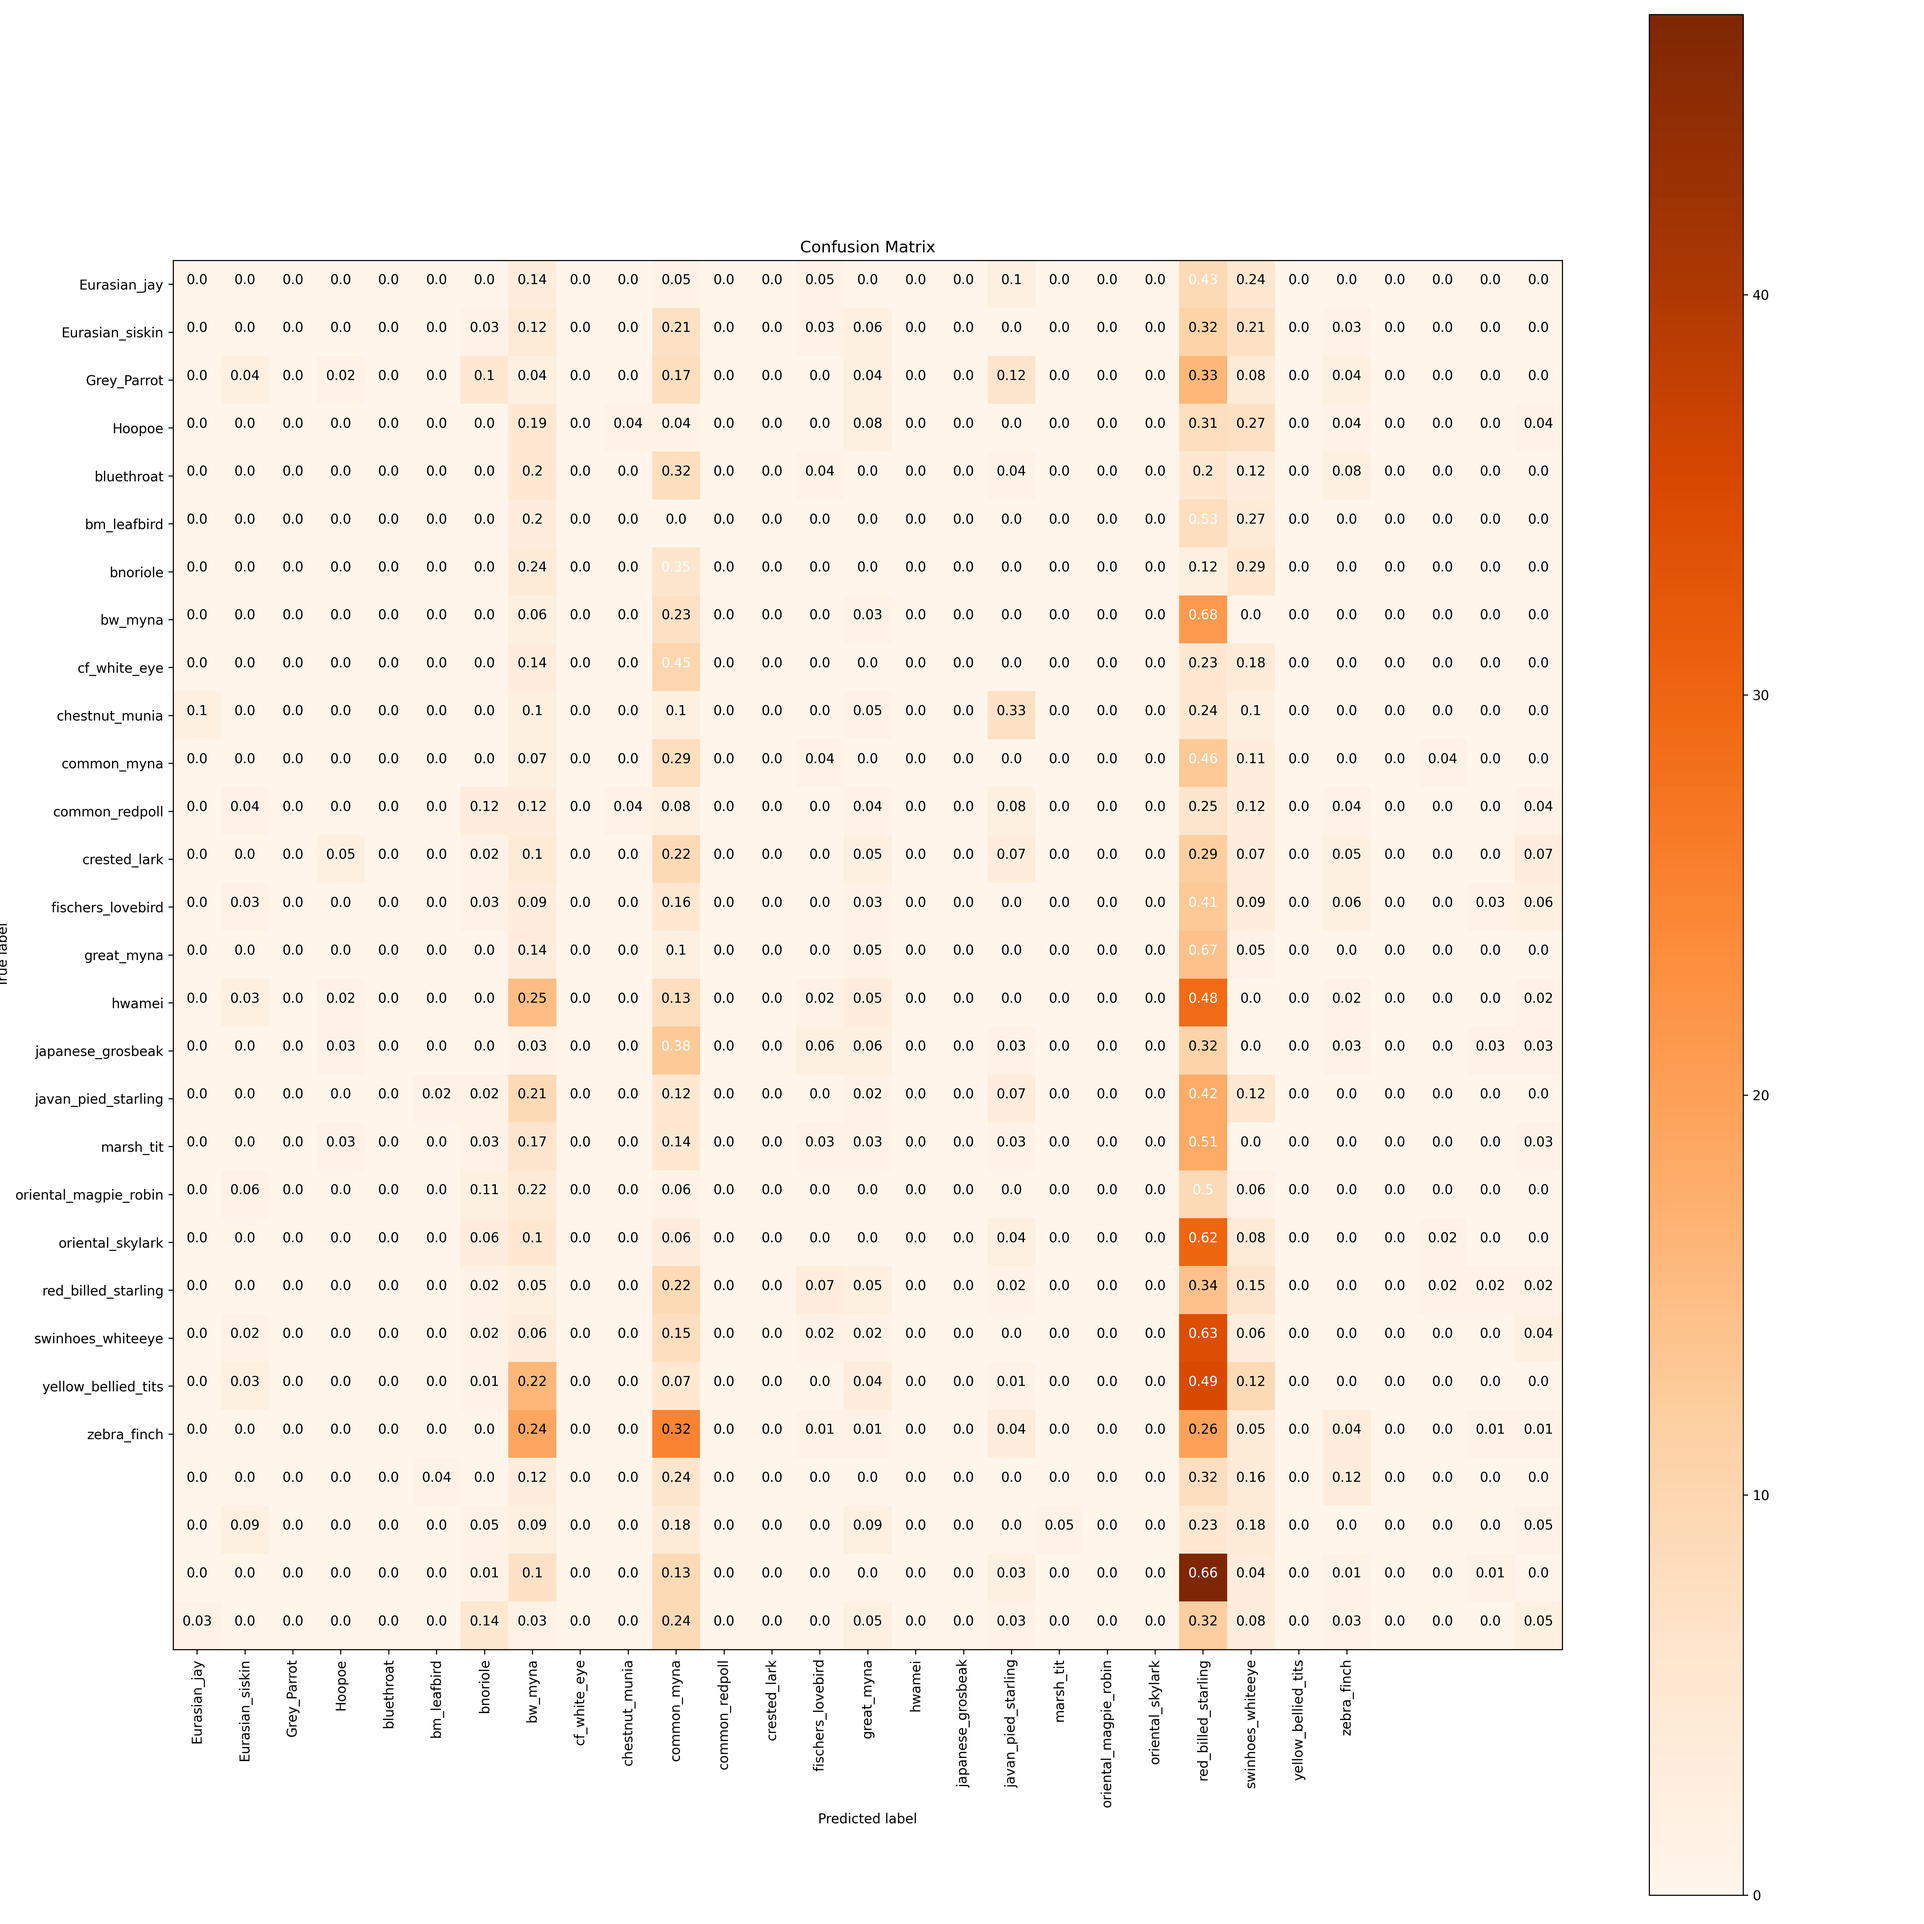
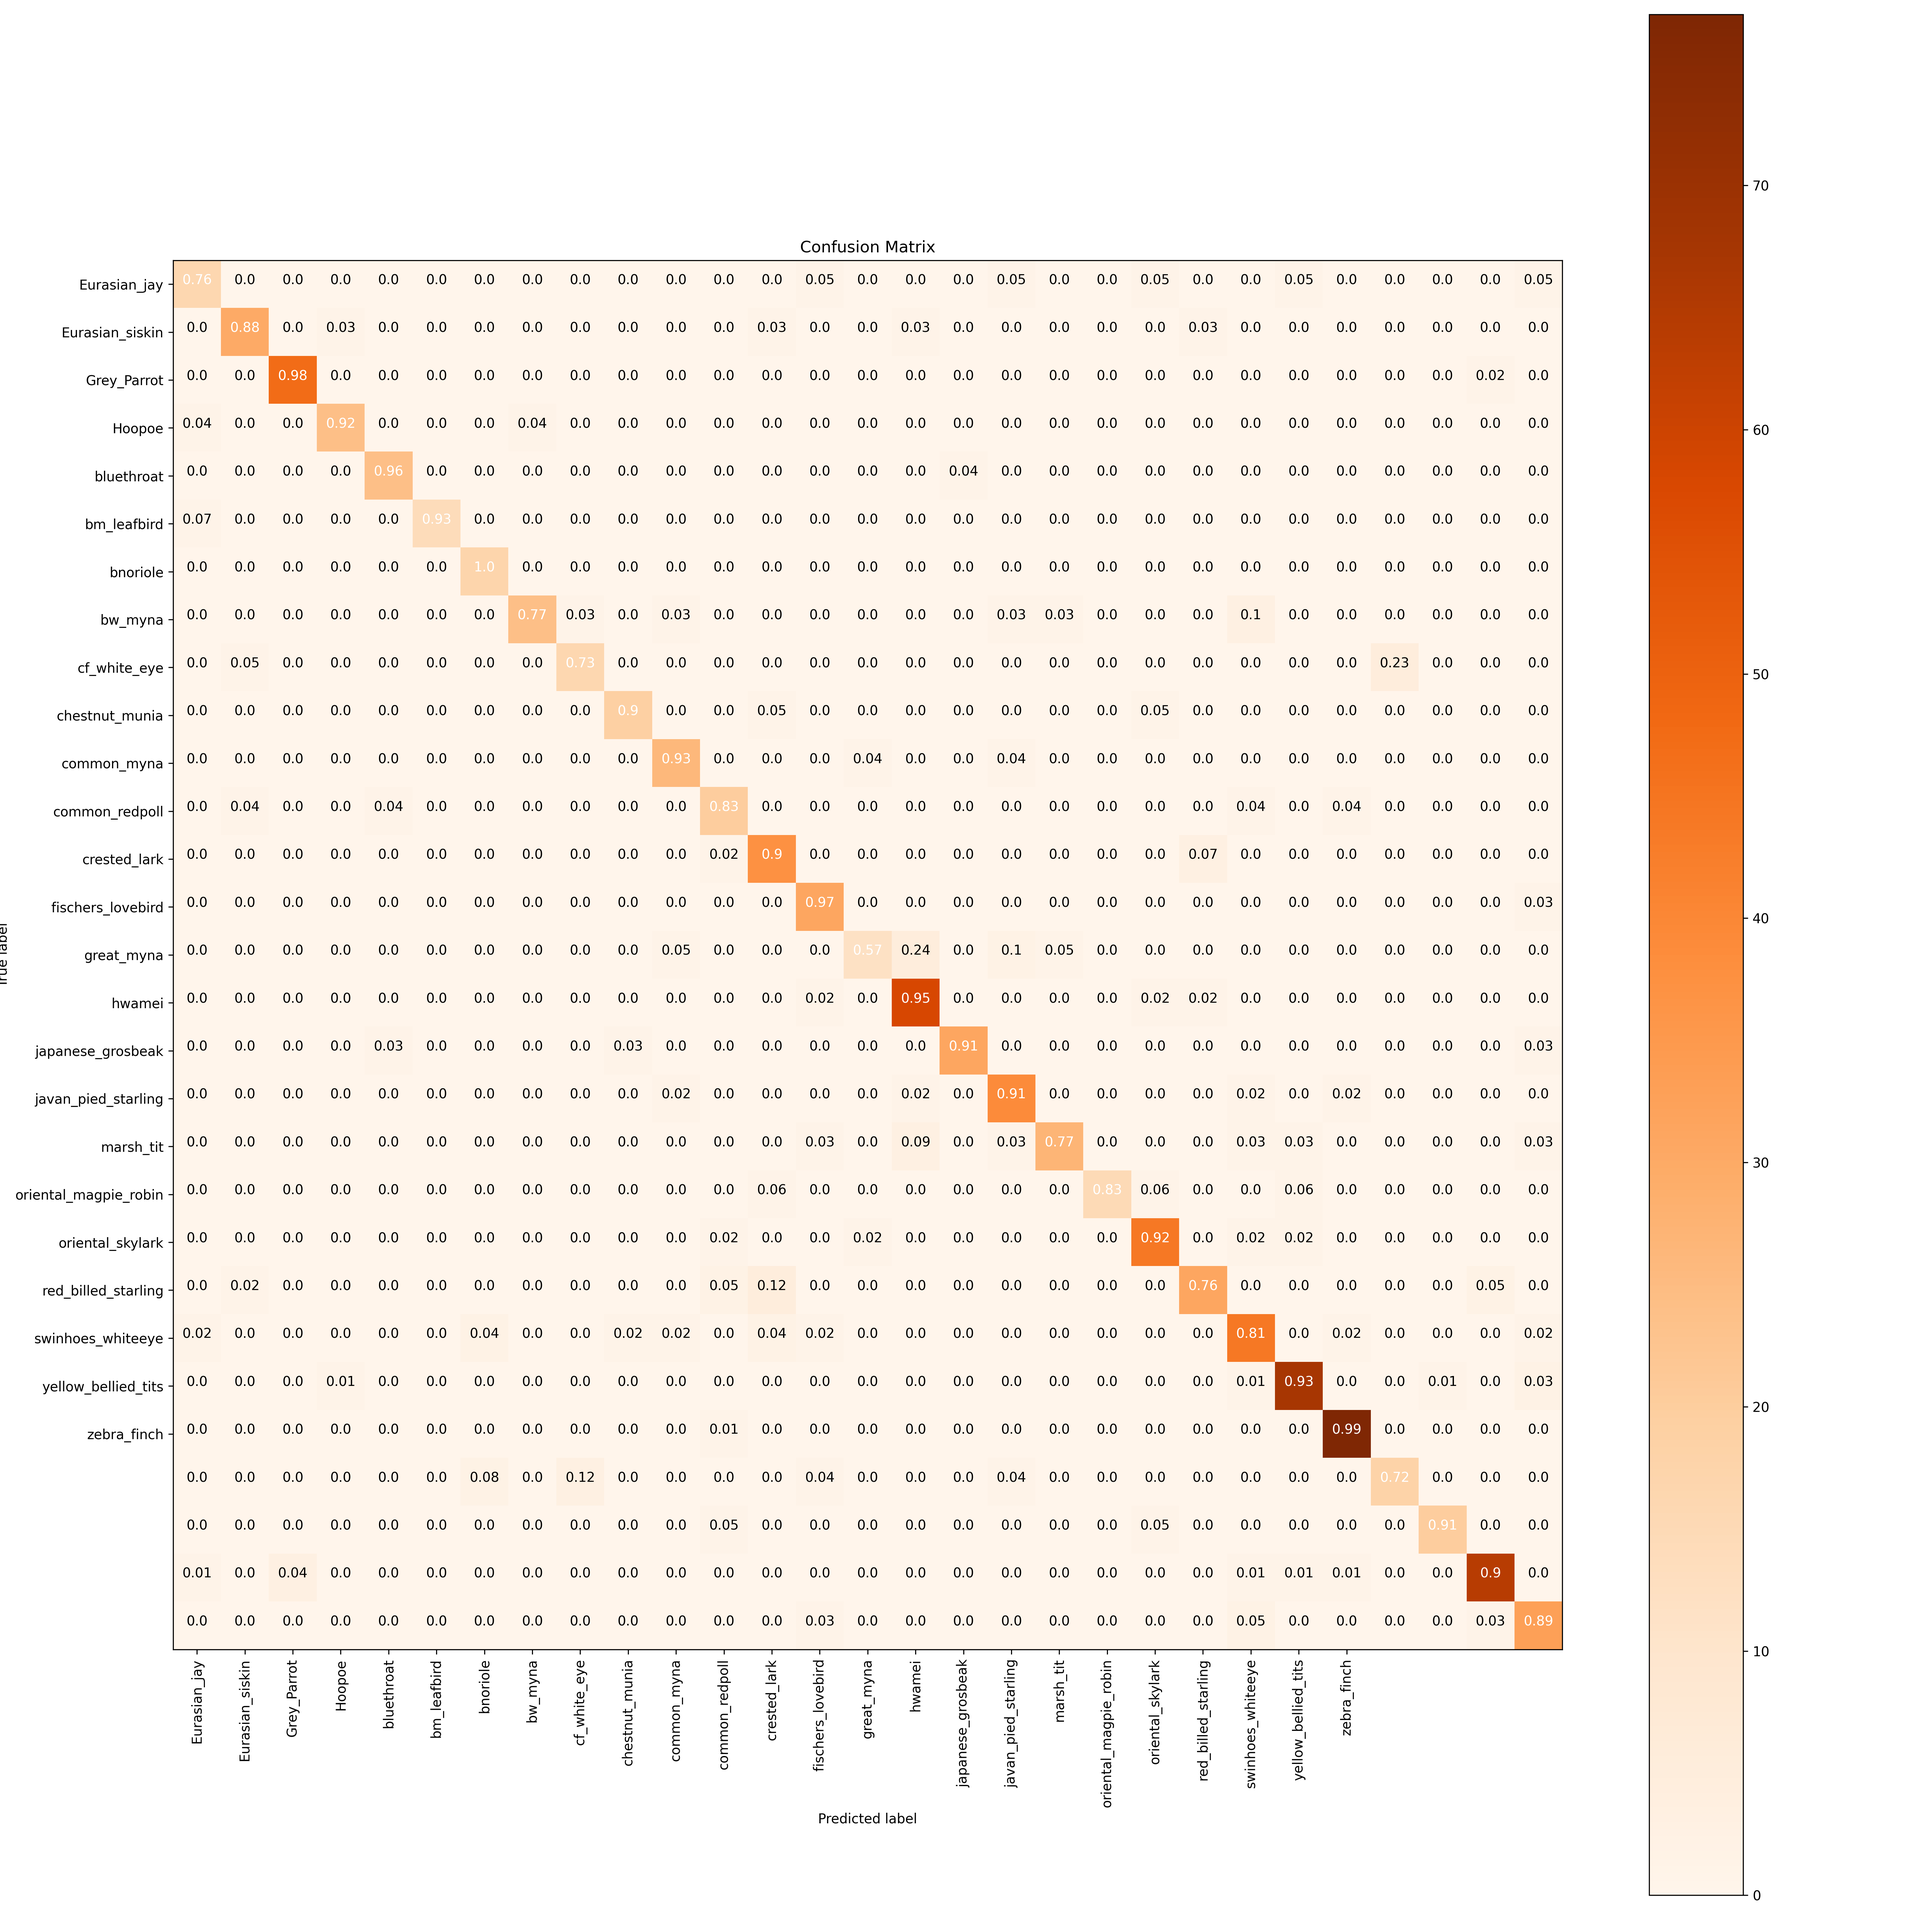
confusion matrices problems

diff --git a/ct_classifier/testing_metrics.py b/ct_classifier/testing_metrics.py
@@ -109,62 +109,9 @@ plt.legend()
 # plt.show()
 plt.savefig('Histogram Scores')
 
-# # Try out the plots per class
-# # Calculate the number of unique classes in your data
+# Try out the plots per class
+# Calculate the number of unique classes in your data
 # num_classes = len(np.unique(labels_list))
-
-# # Initialize lists to hold scores for each class
-# class_logit_scores = [[] for _ in range(num_classes)]
-# class_softmax_scores = [[] for _ in range(num_classes)]
-
-# for i in range(len(labels_list)):
-#     logit_scores = max_pred_list[i].detach().cpu().numpy()
-#     softmax_scores = functional.softmax(max_pred_list[i], dim=0).detach().cpu().numpy()
-#     class_label = labels_list[i].item()
-#     class_logit_scores[class_label].extend([logit_scores])  # Extend logit_scores as a list
-    
-#     # Convert softmax_scores to a list only if it's a tensor with multiple elements
-#     if softmax_scores.ndim > 0:
-#         class_softmax_scores[class_label].extend(softmax_scores.tolist())
-
-# # Create subplots for histograms of logit scores
-# num_rows = (num_classes + 2) // 3
-# fig, axes = plt.subplots(num_rows, 3, figsize=(15, 5 * num_rows))
-# fig.subplots_adjust(hspace=0.5)
-
-# for class_label, scores in enumerate(class_logit_scores):
-#     row = class_label // 3
-#     col = class_label % 3
-#     ax = axes[row, col]
-    
-#     ax.hist(scores, bins=num_bins, alpha=0.5)  # Plot logit_scores array
-        
-#     ax.set_title(f'Class {class_label}')
-#     ax.set_xlabel('Logit Scores')
-#     ax.set_ylabel('Frequency')
-
-# # Save the logit scores plot
-# plt.tight_layout()
-# plt.savefig('Logit_Scores_Per_Class_Panel.png')
-
-# # Create subplots for histograms of softmax scores
-# fig, axes = plt.subplots(num_rows, 3, figsize=(15, 5 * num_rows))
-# fig.subplots_adjust(hspace=0.5)
-
-# for class_label, scores in enumerate(class_softmax_scores):
-#     row = class_label // 3
-#     col = class_label % 3
-#     ax = axes[row, col]
-    
-#     ax.hist(scores, bins=num_bins, alpha=0.5)  # Plot softmax_scores array
-        
-#     ax.set_title(f'Class {class_label}')
-#     ax.set_xlabel('Softmax Scores')
-#     ax.set_ylabel('Frequency')
-
-# # Save the softmax scores plot
-# plt.tight_layout()
-# plt.savefig('Softmax_Scores_Per_Class_Panel.png')
 
 # Append wraps your item into a list, so you end up with a list of lists [[],[],[],[],[]]
 # Extend puts the list into a newer list, but putting it into brackets [.....]
@@ -232,36 +179,26 @@ threshold = 0.3  # You can adjust this threshold value
 confusion_sums = cm1.sum(axis=1) - np.diag(cm1)
 high_confusion_classes = np.where(confusion_sums > threshold)[0]
 
-# # Sample 9 random images 
-# random_images = np.random.choice(np.where((true_labels[idx] in high_confusion_classes) & 
-#                                           (true_labels[idx] != pred_labels[idx])), size=9, replace=False)
+
+# # Sample 9 random images from high confusion classes with mispredictions
+# random_images = np.random.choice(np.where(np.isin(labels_list, high_confusion_classes) & (labels_list != pred_list))[0], size=9, replace=False)
 
 # # Plot
-# fig, axes = plt.subplots(nrows=3, ncols=3, figsize=(8, 8), 
-#                          gridspec_kw={'wspace': 0.5, 'hspace': 0.5})
+# fig, axes = plt.subplots(nrows=3, ncols=3, figsize=(8, 8), gridspec_kw={'wspace': 0.5, 'hspace': 0.5})
 
 # for i, idx in enumerate(random_images):
-#     ax = axes[i//3, i%3]
-#     image = images[idx] 
-#     true_label = true_labels[idx]
-#     pred_label = pred_labels[idx]
+#     ax = axes[i // 3, i % 3]
+#     image = inputs_list[idx]  # Use inputs_list instead of images
+#     true_label = class_mapping[names_label_list[idx]]
+#     pred_label = class_mapping[names_pred_list[idx]]
     
-#     ax.imshow(image, cmap='gray')
+#     ax.imshow(image.permute(1, 2, 0))  # Transpose the image dimensions
 #     ax.set_title(f"True: {true_label}\nPred: {pred_label}")
 #     ax.axis('off')
-# plt.savefig('Sample Of Bad Classes.png')
+
+# plt.savefig('Sample_Of_Bad_Classes.png')  # Save the plot as a PNG file
 
 labels = unique_names_label_list
-
-plt.imshow(cm1, interpolation='nearest')
-plt.title('Confusion matrix')
-plt.ylabel('True label')
-plt.xlabel('Predicted label')
-plt.xticks(range(len(labels)), labels)  
-plt.yticks(range(len(labels)), labels)
-
-# Save confusion matrix plot 
-plt.savefig('confusion_matrix.png')
 
 import itertools
 
@@ -290,6 +227,7 @@ target_names =[
       "crested_lark",
       "fischers_lovebird",
       "great_myna",
+      "hill_mynas",
       "hwamei",
       "japanese_grosbeak",
       "javan_pied_starling",
@@ -297,8 +235,11 @@ target_names =[
       "oriental_magpie_robin",
       "oriental_skylark",
       "red_billed_starling",
+      "red whiskered_bulbul",
+      "siberian_rubythroat",
       "swinhoes_whiteeye",
       "yellow_bellied_tits",
+      "zebra dove",
       "zebra_finch"
     ]
 
@@ -365,7 +306,7 @@ def plot_confusion_matrix(cm, classes, normalize=True, title='Confusion matrix',
 plot_confusion_matrix(cm1, target_names, title='Confusion Matrix')
 
 # how to plot it: https://stackoverflow.com/questions/65317685/how-to-create-image-of-confusion-matrix-in-python
-plt.savefig("cfmdensenetnone.png", dpi=300) # dpi can control the resolution
+plt.savefig("cm_upsampling.png", dpi=500) # dpi can control the resolution
 
 existing_experiment.log_confusion_matrix(matrix=cm1, title="Confusion Matrix 1", labels=unique_names_label_list) # images=inputs,
 

diff --git a/ct_classifier/train.py b/ct_classifier/train.py
@@ -343,7 +343,7 @@ def main():
         cfg['device'] = 'cpu'
 
     # initialize data loaders for training and validation set
-    dl_train = create_dataloader(cfg, split='upsampling') # was just train before, or upsampling
+    dl_train = create_dataloader(cfg, split='train') # was just train before, or upsampling
     sample_batch = next(iter(dl_train))
     inputs, labels = sample_batch
     print (labels)
